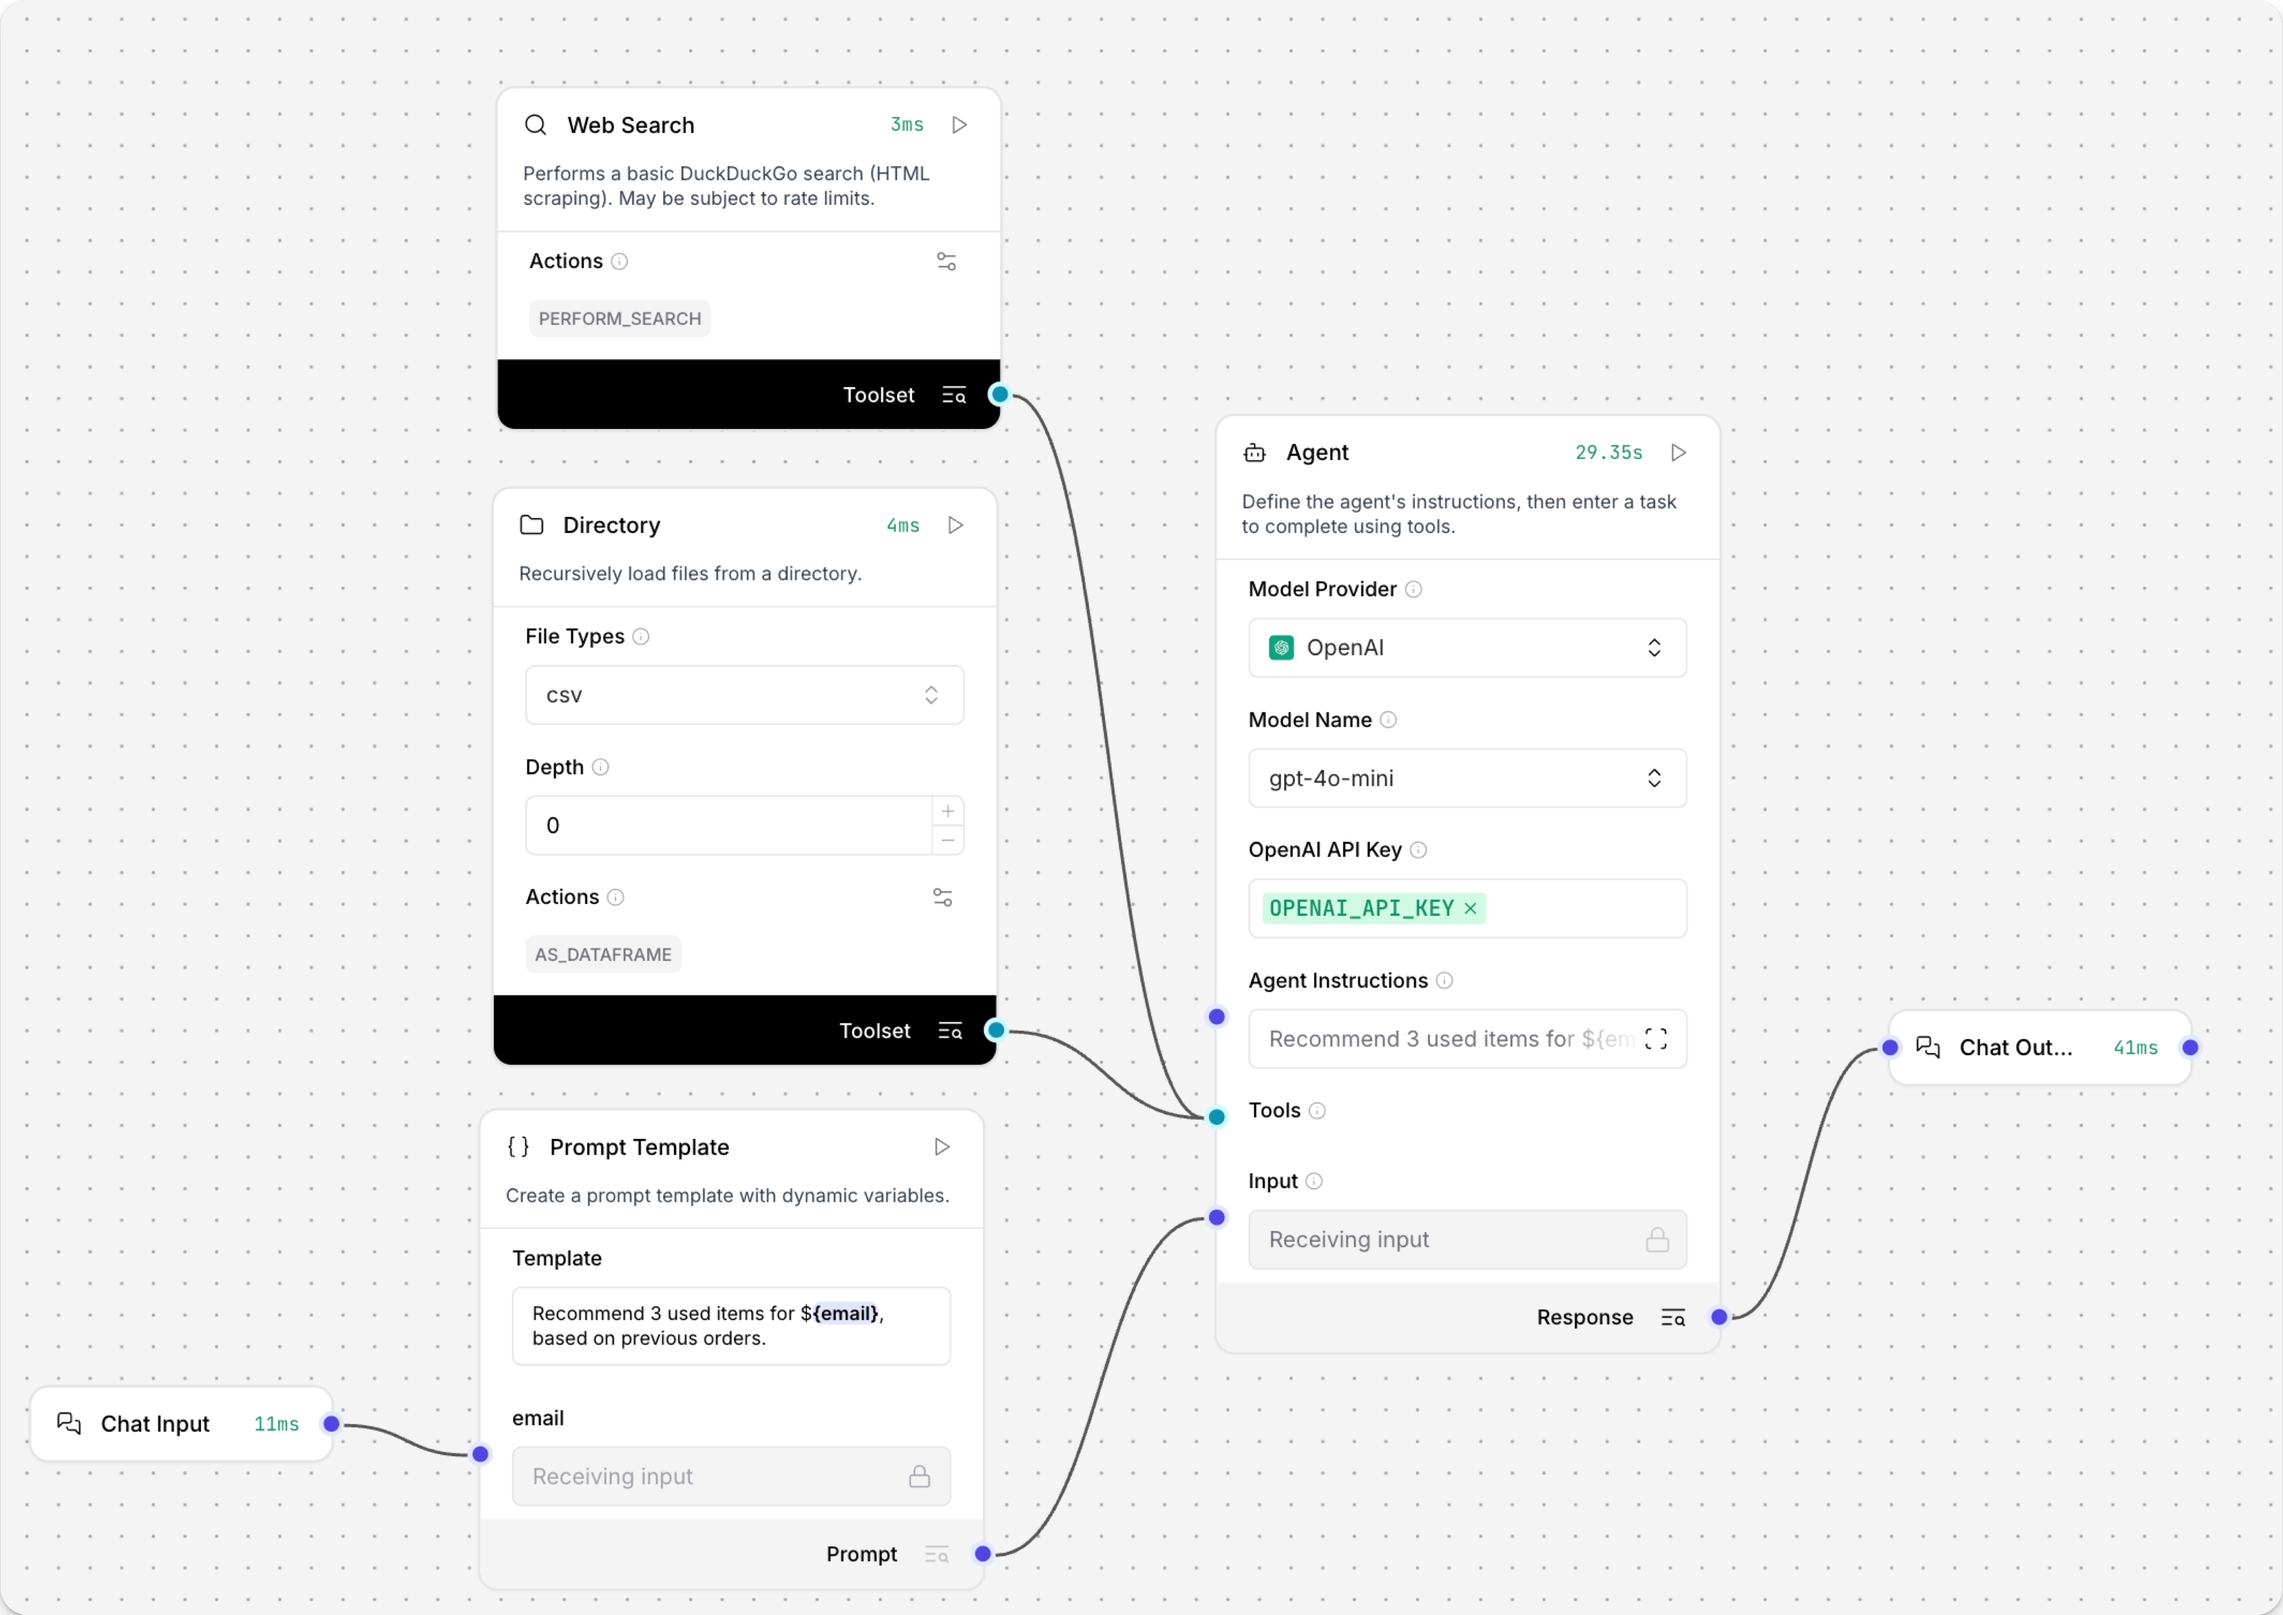
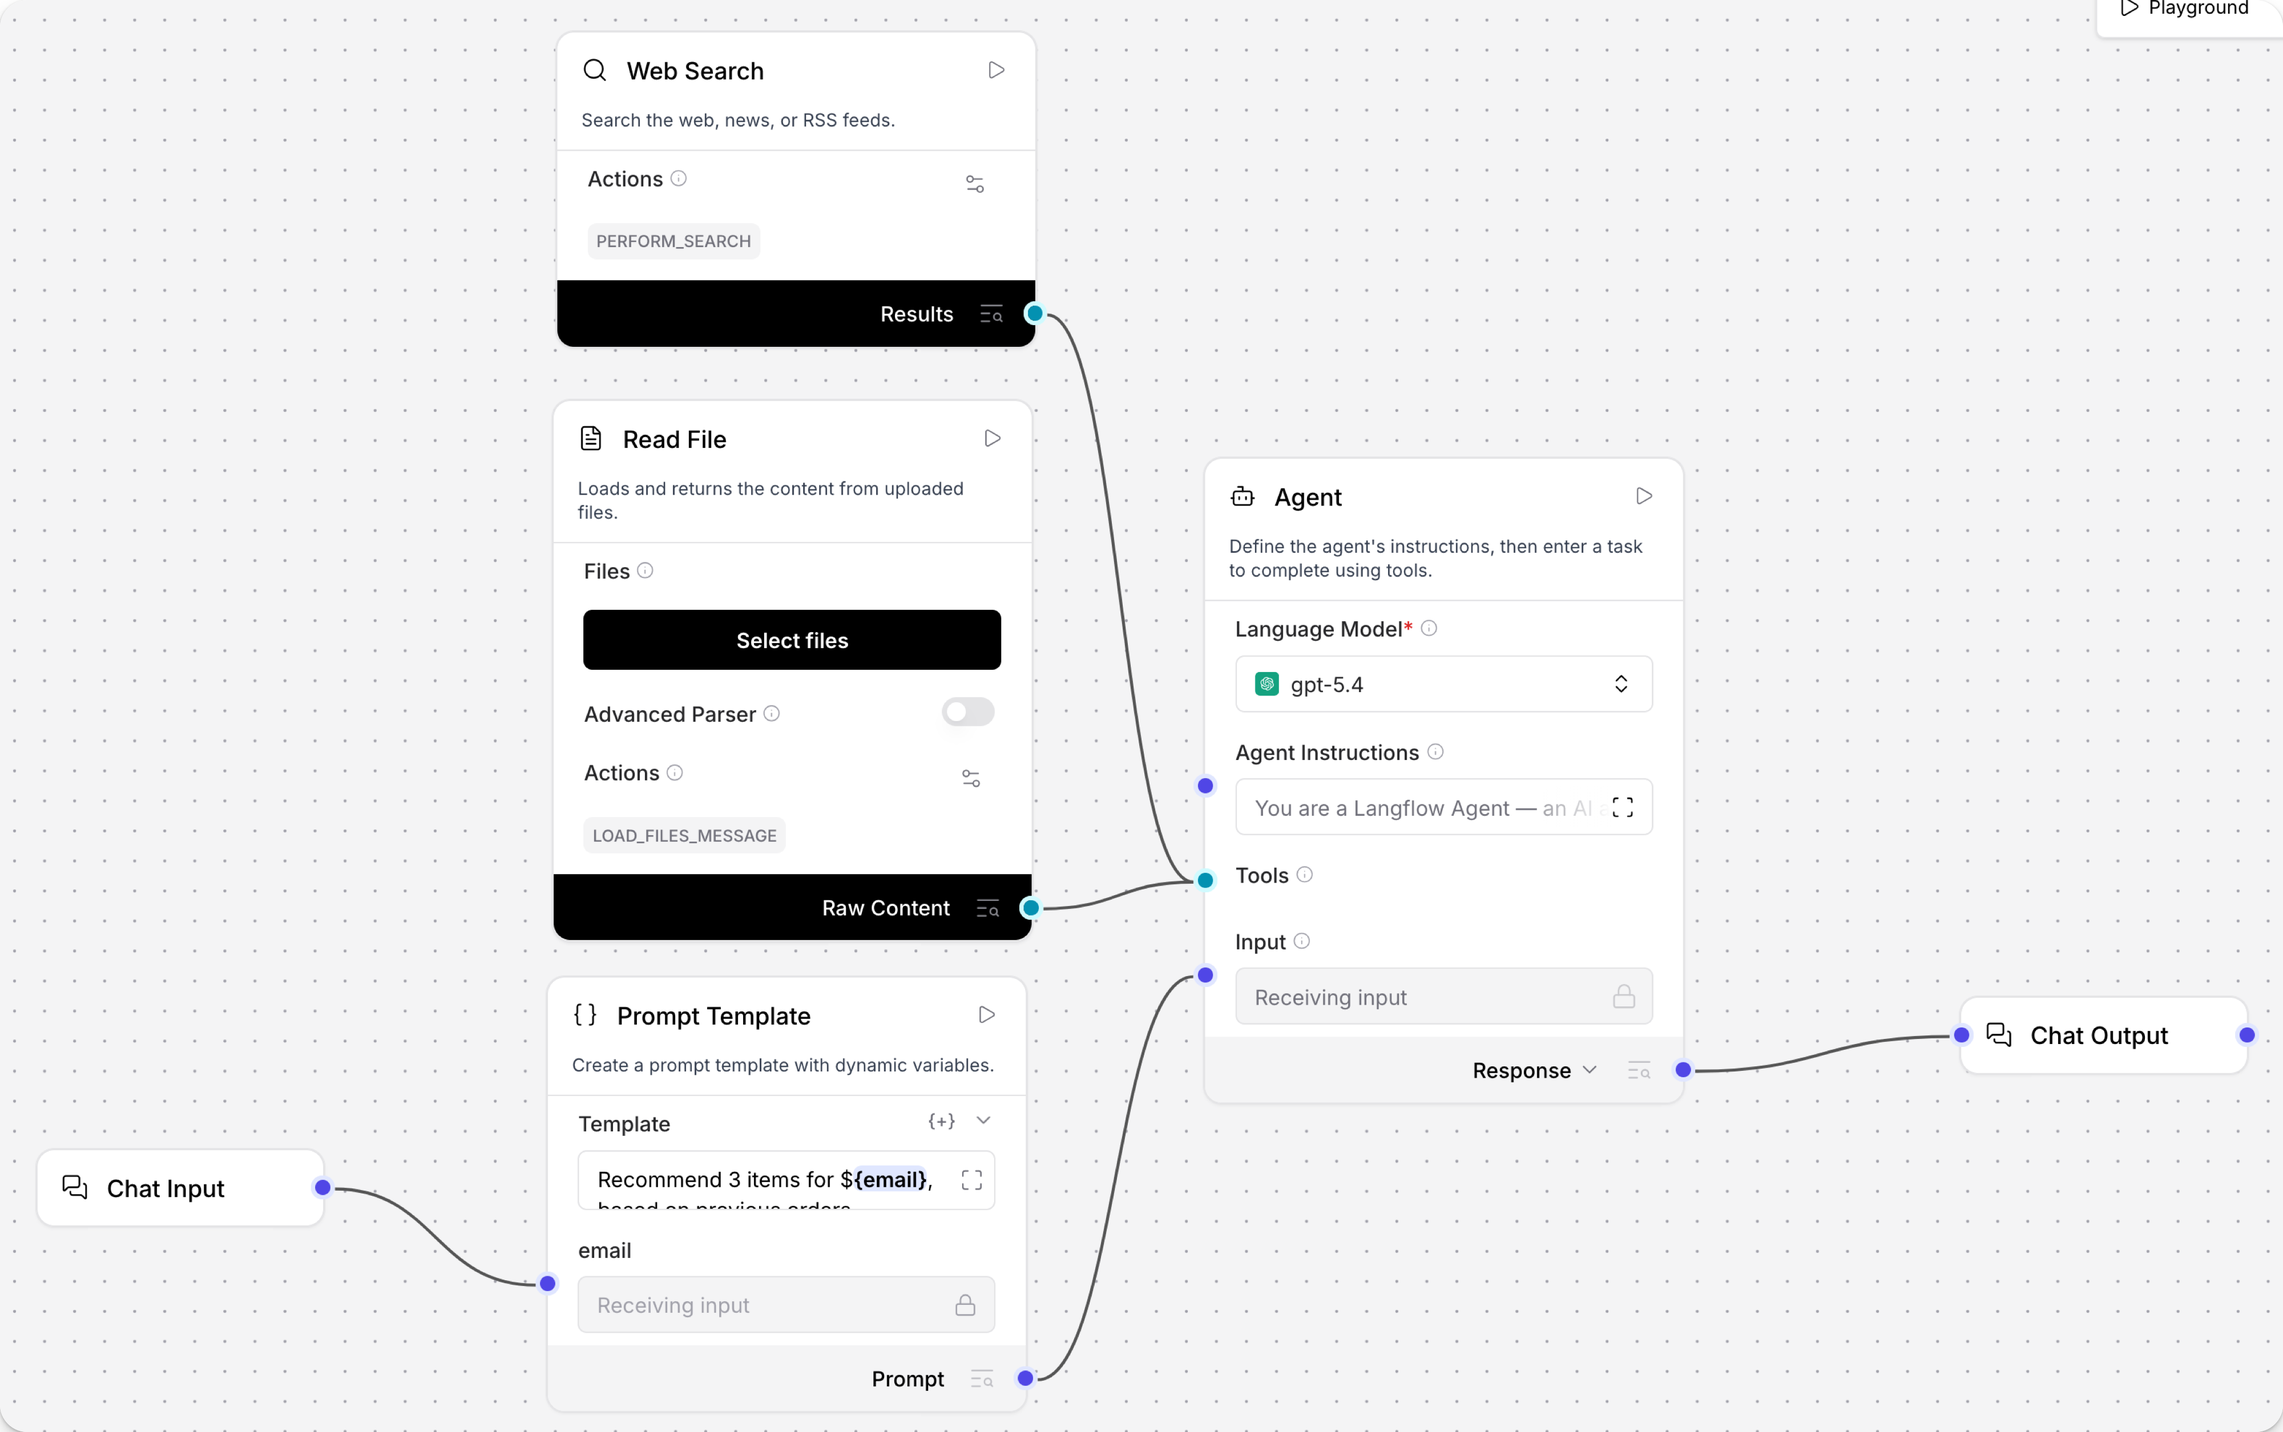
docs: directory component is legacy (#13186)
* remove-and-redirect-component-page

* update-tutorials-that-used-directory-component

* peer-review

* update-tutorial-screenshot

diff --git a/docs/docusaurus.config.js b/docs/docusaurus.config.js
@@ -412,7 +412,11 @@ const config = {
               "/integrations-nvidia-g-assist",
               "/integrations-nvidia-system-assist",
             ]
-          }
+          },
+          {
+            to: "/legacy-core-components",
+            from: "/directory",
+          },
           // add more redirects like this
           // {
           //   to: '/docs/anotherpage',

diff --git a/docs/sidebars.js b/docs/sidebars.js
@@ -369,7 +369,6 @@ module.exports = {
               type: "category",
               label: "Files and Knowledge",
               items: [
-                "Components/directory",
                 "Components/knowledge-base",
                 "Components/read-file",
                 "Components/write-file",
